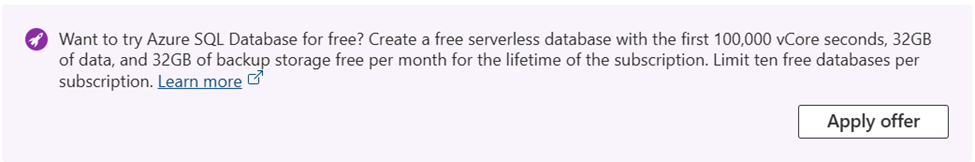
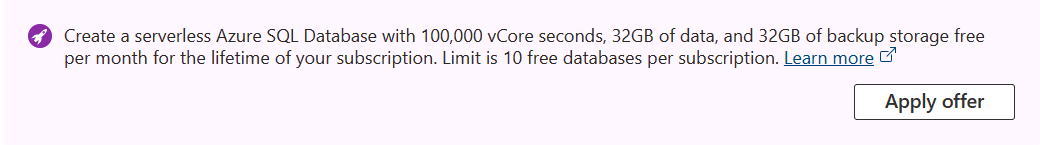
20260102 new simplified UI for free offer

Changed region(s): [[0.0308, 0.1655, 0.9538, 0.5517], [0.8, 0.6345, 0.9846, 0.8828], [0.8, 0.5793, 0.9846, 0.6069]]

diff --git a/azure-sql/database/free-offer.md b/azure-sql/database/free-offer.md
@@ -3,8 +3,8 @@ title: Deploy for Free
 description: Guidance on how to deploy the Azure SQL Database offer for up to 10 free databases.
 author: WilliamDAssafMSFT
 ms.author: wiassaf
-ms.reviewer: amapatil, mathoma
-ms.date: 08/25/2025
+ms.reviewer: ivujic, reneamoso, amapatil, mathoma
+ms.date: 01/02/2026
 ms.service: azure-sql-database
 ms.subservice: service-overview
 ms.topic: how-to
@@ -16,17 +16,81 @@ monikerRange: "=azuresql || =azuresql-db"
 > * [Azure SQL Database](free-offer.md?view=azuresql-db&preserve-view=true)
 > * [Azure SQL Managed Instance](../managed-instance/free-offer.md?view=azuresql-mi&preserve-view=true)
 
-Try Azure SQL Database at no cost with our free tier offer. Each Azure subscription allows you to create up to 10 General Purpose databases. 
+Try Azure SQL Database at no cost with our free tier offer. For each database, you get 100,000 vCore seconds, 32 GB of data, and 32 GB of backup storage free per month for the lifetime of your subscription. Each Azure subscription allows you to create up to 10 General Purpose databases. 
 
-For each database, you receive a monthly allowance of 100,000 vCore seconds of compute, 32 GB of data storage, and 32 GB of backup storage, free for the lifetime of your subscription.
+To get started and quickly create a new free Azure SQL Database, select the **Try for free** link on the [Azure SQL hub at aka.ms/azuresqlhub](https://aka.ms/azuresqlhub).
 
-To get started, look for the **Apply offer** banner on the [provisioning page for Azure SQL Database](https://portal.azure.com/#create/Microsoft.SQLDatabase), or select the **Try for free** link on the [Azure SQL hub at aka.ms/azuresqlhub](https://aka.ms/azuresqlhub).
-
-:::image type="content" source="media/free-offer/azure-sql-database-free-banner.png" alt-text="Screenshot from the Azure portal of the Free Offer banner." lightbox="media/free-offer/azure-sql-database-free-banner.png":::
+   :::image type="content" source="media/free-offer/show-options-create-sql-database.png" alt-text="Screenshot from the Azure portal showing the Azure SQL hub and the Try for free link in the Azure SQL Database pane." lightbox="media/free-offer/show-options-create-sql-database.png":::
 
 You know the offer has been applied when the **Cost summary** card on the right side of the page shows **Estimated Cost/Month** zero cost.
 
-:::image type="content" source="media/free-offer/cost-summary-card.png" alt-text="Screenshot from the Azure portal of the Free Offer Cost summary card. Included in the details are 'First 32 G B of storage free' and 'First 100,000 vCore seconds free'.":::
+:::image type="content" source="media/free-offer/cost-summary-card.png" alt-text="Screenshot from the Azure portal of the Free Offer Cost summary card.":::
+
+## Prerequisites
+
+To create a free Azure SQL Database, you need:
+
+- An Azure account.
+  - If you're evaluating Azure, consider the [Azure free account, with many services available free for 12 months](https://azure.microsoft.com/pricing/purchase-options/azure-account?icid=azurefreeaccount).
+  - While the [previous offer](free-sql-db-free-account-how-to-deploy.md) required an Azure Free subscription, this new offer is available regardless of your Azure subscription type.
+- An Azure subscription. There's a limit of 10 free offer databases per subscription.
+
+## Create a database
+
+Use the Azure portal to create the new free Azure SQL Database.
+
+To create a free offer database, follow these steps:
+
+1. Select the **Try for free** link on the [Azure SQL hub at aka.ms/azuresqlhub](https://aka.ms/azuresqlhub).
+   - You can also find the **Apply offer** banner on the [provisioning page for Azure SQL Database](https://portal.azure.com/#create/Microsoft.SQLDatabase), and proceed with the steps to [Create a single database in the serverless compute tier](single-database-create-quickstart.md?view=azuresql-db&preserve-view=true&tabs=azure-portal#create-a-single-database).
+    
+1. On the Create SQL Database page, you should see the Free offer banner.
+
+   :::image type="content" source="media/free-offer/create-sql-database-free-offer-advanced-configuration.png" alt-text="Screenshot from the Azure portal of the Free offer applied banner.":::
+
+1. On the **Basics** tab:
+    1. Under **Project details**:
+        - Select your **Subscription**. Your current subscription is already selected.
+        - An existing **Resource Group** is already selected. You can change this or create a new resource group.
+    1. Under **Database details**: 
+        - Use the automatically-created unique **Database name**, or provide a new name.
+        - An existing logical **Server** is already selected. You can change this or create a new logical server.
+    
+    That's all that's needed! The new database will be created with defaults, including the option to pause the database when the free limits are reached. This and other options can be changed in the future.
+
+1. Select **Review + create**.
+1. Review and select **Create**.
+
+## Query the database
+
+Once your database is created, you can use the **Query editor (preview)** in the Azure portal to connect to the database and query data. For more information, see [Query the database](/azure/azure-sql/database/single-database-create-quickstart?tabs=azure-portal#query-the-database).
+
+You can [connect to and query your database](connect-query-content-reference-guide.md) using different tools and languages:
+
+- [Connect and query using SQL Server Management Studio](connect-query-ssms.md)
+- The [mssql extension](https://aka.ms/mssql-marketplace) for [Visual Studio Code](https://code.visualstudio.com/docs)
+- [sqlcmd](/sql/tools/sqlcmd/sqlcmd-utility)
+- [Azure portal query editor for Azure SQL Database](query-editor.md)
+- Review many more [connect and query quickstarts and libraries](connect-query-content-reference-guide.md).
+
+## Monitor and track service usage
+
+You won't be charged for the Azure SQL Database, unless you exceed the free database amount and have selected to continue using for additional charges. To remain within the limit, use the Azure portal to track and monitor your free services usage.
+
+Enjoy Azure SQL Database free of charge with our offer that includes up to 10 General Purpose databases per subscription. Each database comes with a monthly allowance of 100,000 vCore seconds of compute, 32 GB of data storage, and 32 GB of backup storage. 
+
+You will not incur any charges unless you exceed these allowances and you opt to pay for usage beyond the free limits. To monitor vCore consumption, the Azure portal provides metrics to track: 
+
+1. On the database **Overview** tab, you see a **Free monthly vCore amount** entry:
+
+    :::image type="content" source="media/free-offer/free-monthly-vcore-amount-remaining.png" alt-text="Screenshot from the Azure portal of free monthly vCore seconds amount remaining.":::
+
+1. Select the **seconds remaining** amount. The **Metrics** chart launches where you can look at **Free amount remaining** or **Free amount consumed** metrics.
+
+### Tips on managing vCore seconds
+
+- Disconnect querying tools such as [SQL Server Management Studio](/ssms/sql-server-management-studio-ssms), including the object explorer, when you're done using them. Leaving connections open can continue to consume credits by preventing auto-pause.
+- On the **Metrics** tab, [create an alert rule](/azure/azure-monitor/alerts/tutorial-metric-alert) at no cost. Use the **Free amount remaining** metric to send an alert when the amount is less than 10,000 vCore seconds (10% of the monthly limit), so you know when you're running out for the month.
 
 ## Monthly free limits
 
@@ -46,80 +110,9 @@ Regardless, the free amount renews for each free offer database at the start of 
 
 For more information, see the [Azure SQL Database free offer FAQ](free-offer-faq.yml).
 
-## Prerequisites
+### Offer limitations
 
-To create a free Azure SQL Database, you need:
-
-- An Azure account.
-  - If you're evaluating Azure, consider the [Azure free account, with many services available free for 12 months](https://azure.microsoft.com/pricing/purchase-options/azure-account?icid=azurefreeaccount).
-  - While the [previous offer](free-sql-db-free-account-how-to-deploy.md) required an Azure Free subscription, this new offer is available regardless of your Azure subscription type.
-- An Azure subscription. There's a limit of 10 free offer databases per subscription.
-
-## Create a database
-
-Use the Azure portal to create the new free Azure SQL Database.
-
-To create a free offer database, follow these steps:
-
-1. Go to [Azure SQL hub at aka.ms/azuresqlhub](https://aka.ms/azuresqlhub). 
-1. In the pane for **Azure SQL Database**, select **Show options**.
-1. In the **Azure SQL Database options** window, select **Create SQL Database**.
-
-   :::image type="content" source="media/free-offer/show-options-create-sql-database.png" alt-text="Screenshot from the Azure portal showing the Azure SQL hub, the Show options button, and the Create SQL Database button." lightbox="media/free-offer/show-options-create-sql-database.png":::
-
-1. On the **Basics** tab, look for the banner that says "Want to try Azure SQL Database for free?", select the **Apply offer** button.
-1. Under **Project details**, select your Subscription name.
-1. For **Resource group**, select **Create new**, enter `myFreeDBResourceGroup`, and select **OK**.
-1. For **Database name**, enter `myFreeDB`.
-1. For **Server**, select **Create new**, and fill out the **New server** form with the following values:
-   - **Server name**: Enter `myfreesqldbserver`, and add some characters for uniqueness. The name of the Azure SQL logical server must be lowercase.
-   - **Authentication method**: Select **Use both SQL and Microsoft Entra authentication**.
-   - **Server admin login**: Enter a username for the SQL authentication server admin.
-   - **Password**: Enter a password for the SQL authenticated server admin that meets complexity requirements, and enter it again in the **Confirm password** field.
-   - **Location**: Select a location from the dropdown list. 
-1. Select **OK**. Leave other options as default.
-1. Under **Compute + storage**, leave the existing default database as configured "Standard-series (Gen5), 2 vCores, 32-GB storage". You can adjust this setting later if needed.
-1. For the **Behavior when free limit reached** setting, you have two choices to determine what happens when the free monthly offer limits are exhausted for a free offer database.
-    :::image type="content" source="media/free-offer/behavior-when-free-offer-limit-reached.png" alt-text="Screenshot from the Azure portal showing the free Azure SQL Database offer options." lightbox="media/free-offer/behavior-when-free-offer-limit-reached.png":::
-    - If you choose **Auto-pause the database until next month** option, you'll not be charged for that month once the free limits are reached, however the database will become inaccessible for the remainder of the calendar month. Later, you can enable the **Continue using database for additional charges** setting in the **Compute + Storage** page of the SQL database.
-    - To maintain access to the database when limits are reached, which results in charges for any amount above the free offer vCore and storage size limits, select the **Continue using database for additional charges** option. You only pay for any usage over the free offer limits.
-    - You continue to get the free amount renewed at the beginning of each month.
-    > [!IMPORTANT]  
-    > Once you have chosen **Continue using database for additional charges**, it's not possible to go back to the free amount with auto-pause.
-1. Select **Next : Networking**. On the **Networking** tab, for **Firewall rules**, set **Allow Azure services and resources to access this server** set to **Yes**. Set **Add current client IP address** to **Yes**. Leave other options as default.
-1. Select **Next : Security**. Leave these options as defaults.
-1. Select **Next: Additional settings**. On the **Additional settings** tab, in the **Data source** section, for **Use existing data**, you have options to use an existing database:
-    - Choose **Sample** to use the sample `AdventureWorksLT` database.
-    - If you intend to populate with your own data, leave this set to **None**.
-1. Select **Review + create**. If you're starting with the free database offer, you should see a card with no charges on it.
-1. Review and select **Create**.
-
-## Query the database
-
-Once your database is created, you can use the **Query editor (preview)** in the Azure portal to connect to the database and query data. For more information, see [Query the database](/azure/azure-sql/database/single-database-create-quickstart?tabs=azure-portal#query-the-database).
-
-## Monitor and track service usage
-
-You won't be charged for the Azure SQL Database, unless you exceed the free database amount and have selected to continue using for additional charges. To remain within the limit, use the Azure portal to track and monitor your free services usage.
-
-Enjoy Azure SQL Database free of charge with our offer that includes up to 10 General Purpose databases per subscription. Each database comes with a monthly allowance of 100,000 vCore seconds of compute, 32 GB of data storage, and 32 GB of backup storage. 
-
-You will not incur any charges unless you exceed these allowances and you opt to pay for usage beyond the free limits. To monitor vCore consumption, the Azure portal provides metrics to track: 
-
-1. On the database **Overview** tab, you see a **Free monthly vCore amount** entry:
-
-    :::image type="content" source="media/free-offer/free-monthly-vcore-amount-remaining.png" alt-text="Screenshot from the Azure portal of free monthly vCore seconds amount remaining.":::
-
-1. Select the **seconds remaining** amount. The **Metrics** chart launches where you can look at **Free amount remaining** or **Free amount consumed** metrics.
-
-### Tips on managing vCore seconds
-
-1. Disconnect querying tools such as [SQL Server Management Studio](/ssms/sql-server-management-studio-ssms), including the object explorer, when you're done using them. Leaving connections open can continue to consume credits by preventing auto-pause.
-1. On the **Metrics** tab, [create an alert rule](/azure/azure-monitor/alerts/tutorial-metric-alert) at no cost. Use the **Free amount remaining** metric to send an alert when the amount is less than 10,000 vCore seconds (10% of the monthly limit), so you know when you're running out for the month.
-
-## Offer limitations
-
-Compared to a normal General Purpose database, a free offer database has the following limitations.
+You can use the Azure portal, PowerShell, or Azure CLI to create a free offer database. Compared to a normal General Purpose database, a free offer database has the following limitations.
 
 - When the **Auto-pause the database until next month** option is enabled:
   - There is a maximum of 4 vCores and maximum database size of 32 GB.
@@ -132,28 +125,10 @@ Compared to a normal General Purpose database, a free offer database has the fol
 - The ability to restore or convert an existing database to the free offer database, or data sync with other databases, isn't available.
 - Elastic Jobs and DNS Alias aren't available for this free offer.
 - The free offer Azure SQL Database can't be a part of an [elastic pool](elastic-pool-overview.md) or [failover group](failover-group-sql-db.md).
-- You can use the Azure portal, PowerShell, or Azure CLI to create a free offer database.
 - Currently, the Microsoft Azure for Students Starter offer is incompatible with this Azure SQL Database free offer. Instead, consider the [Azure for College Students offer](https://azure.microsoft.com/pricing/offers/ms-azr-0170p/) or the [Azure Free offer](https://azure.microsoft.com/pricing/offers/ms-azr-0044p/). If desired, the **Continue using database for additional charges** option can deduct from the starting credits.
-- For more information, review the [Azure SQL Database free offer FAQ](free-offer-faq.yml).
-- Once a region is selected for a free database under a subscription, the same region applies to all free databases in that subscription, and cannot be changed. 
-- If the free offer banner doesn't appear in the Azure portal as expected, choose the desired logical **Server** in the dropdown list again.
-
-## Clean up resources
-
-When you're finished using these resources, or if you want to start over again with a new free database (limit 10 per subscription), you can delete the resource group you created, which also deletes the Azure SQL Database logical server and single database within it.
-
-To delete `myFreeDBResourceGroup` and all its resources using the Azure portal:
-
-1. In the Azure portal, search for and select **Resource groups**, and then select `myFreeDBResourceGroup` from the list.
-1. On the **Resource group** page, select **Delete resource group**.
-1. Under **Type the resource group name**, enter `myFreeDBResourceGroup`, and then select **Delete**.
+- When setting an **Advanced configuration**, once a region is selected for a free database under a subscription, the same region applies to all free databases in that subscription, and cannot be changed.
+- When setting an **Advanced configuration**, if the free offer banner doesn't appear in the Azure portal as expected, choose the desired logical **Server** in the dropdown list again.
 
 ## Related content
 
 - [Azure SQL Database free offer FAQ](free-offer-faq.yml)
-
-[Connect and query](connect-query-content-reference-guide.md) your database using different tools and languages:
-- [Connect and query using SQL Server Management Studio](connect-query-ssms.md)
-- The [mssql extension](https://aka.ms/mssql-marketplace) for [Visual Studio Code](https://code.visualstudio.com/docs)
-- [sqlcmd](/sql/tools/sqlcmd/sqlcmd-utility)
-- [Azure portal query editor for Azure SQL Database](query-editor.md)